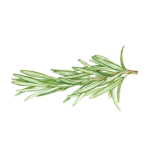
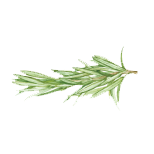
add GA + fix image leaf

diff --git a/components/LBC/ToutBu.js b/components/LBC/ToutBu.js
@@ -8,7 +8,7 @@ const ToutBu = ({ page }) => {
         <div className="bg-blueWine text-white flex flex-col py-12 px-5 w-full sm:px-10 lg:absolute lg:top-0 lg:left-0 lg:z-10 lg:px-20 lg:pr-10 lg:py-16 lg:w-[59%] xl:px-28 xl:py-16 xl:w-[55%] 2xl:px-40">
           <h1 className="">Ils ont tout bu :-)</h1>
           <p className="text-2xl font-semibold mt-5">
-            Nous revenons très vite avec
+            Nous revenons très vite avec{" "}
             {page === "serieLim"
               ? "une nouvelle série limitée"
               : "le prochain Bon Coup"}
@@ -34,26 +34,32 @@ const ToutBu = ({ page }) => {
       </div>
       <div className="px-5 sm:px-10 lg:px-20 xl:px-28 2xl:px-40 my-20 md:w-3/4 mx-auto text-center">
         <h2 className="text-4xl font-light">EMOVIN pour tous les goûts</h2>
-        <h3 className="text-2xl font-light">... mais surtout le vôtre !</h3>
+        <h3 className="text-2xl font-light">
+          ...&nbsp;mais surtout le vôtre&nbsp;!
+        </h3>
         <div className="mt-5 leading-7">
-          <p>Bonne nouvelle ! Votre attente ne devrait pas être trop longue…</p>
+          <p>
+            Bonne nouvelle&nbsp;! Votre attente ne devrait pas être trop longue…
+          </p>
 
           <p className="mt-2">
-            Nos deux compères ont repris la « route des vins » pour vous
-            dénicher de nouvelles « pépites » à découvrir.
+            Nos deux compères ont repris la «&nbsp;route des vins&nbsp;» pour
+            vous dénicher de nouvelles «&nbsp;pépites&nbsp;» à découvrir.
           </p>
 
           <p className="mt-2">
             Pour la prochaine opération, notre feuille de route (ADN
-            d&#39;EMOVIN) est de vous trouver des « flacons » rares issus de
-            domaines respectueux de la nature et qui ne sont pas nécessairement
-            les plus connus ou parfois difficile d&#39;accès&nbsp;!
+            d&#39;EMOVIN) est de vous trouver des «&nbsp;flacons&nbsp;» rares
+            issus de domaines respectueux de la nature et qui ne sont pas
+            nécessairement les plus connus ou parfois difficile
+            d&#39;accès&nbsp;!
           </p>
 
           <p className="mt-2">
-            Notre quête nous pousse rarement vers « le moins disant » d&#39;une
-            appellation, mais plutôt vers un vin « bien fait » et qui correspond
-            à vos attentes ! Vous nous faites confiance depuis près de 2 ans…{" "}
+            Notre quête nous pousse rarement vers «&nbsp;le moins disant&nbsp;»
+            d&#39;une appellation, mais plutôt vers un vin «&nbsp;bien
+            fait&nbsp;» et qui correspond à vos attentes ! Vous nous faites
+            confiance depuis près de 2 ans…{" "}
           </p>
           <p>cela nous honore tout autant que cela nous oblige.</p>
 

diff --git a/pages/_app.js b/pages/_app.js
@@ -9,6 +9,7 @@ import Loading from "../components/Loading";
 import { useContext, useEffect } from "react";
 import { CookieNotFound } from "@shopify/shopify-api/dist/error";
 import Cookies from "js-cookie";
+import Script from "next/script";
 
 function MyApp({ Component, pageProps }) {
   const router = useRouter();
@@ -32,6 +33,22 @@ function MyApp({ Component, pageProps }) {
   // }
   return (
     <>
+      <Script
+        id="1"
+        strategy="lazyOnload"
+        src={`https://www.googletagmanager.com/gtag/js?id=${process.env.NEXT_PUBLIC_GOOGLE_ANALYTICS}`}
+      />
+
+      <Script strategy="lazyOnload" id="2">
+        {`
+        window.dataLayer = window.dataLayer || [];
+        function gtag(){dataLayer.push(arguments);}
+        gtag('js', new Date());
+        gtag('config', '${process.env.NEXT_PUBLIC_GOOGLE_ANALYTICS}', {
+        page_path: window.location.pathname,
+        });
+    `}
+      </Script>
       <Head>
         <title>Emovin : le Plaisir de Partager</title> {/* customisable */}
       </Head>

diff --git a/pages/_document.js b/pages/_document.js
@@ -46,9 +46,16 @@ class MyDocument extends Document {
           />
           <meta property="og:locale:alternate" content="fr_FR" />
           <meta property="og:site_name" content="Emovin" />
-          <link rel="preconnect" href="https://fonts.googleapis.com"/>
-          <link rel="preconnect" href="https://fonts.gstatic.com" crossOrigin="True"/>
-          <link href="https://fonts.googleapis.com/css2?family=Caveat:wght@400;500;600;700&family=Lexend:wght@100;200;300;400;500;600;700;800;900&display=swap" rel="stylesheet"/>
+          <link rel="preconnect" href="https://fonts.googleapis.com" />
+          <link
+            rel="preconnect"
+            href="https://fonts.gstatic.com"
+            crossOrigin="True"
+          />
+          <link
+            href="https://fonts.googleapis.com/css2?family=Caveat:wght@400;500;600;700&family=Lexend:wght@100;200;300;400;500;600;700;800;900&display=swap"
+            rel="stylesheet"
+          />
         </Head>
         <body>
           <Main />

diff --git a/pages/le-bon-coup.js b/pages/le-bon-coup.js
@@ -4,9 +4,10 @@ import { getAllProductsLeBonCoup } from "../lib/shopify";
 
 const leboncoup = ({ productsLBC }) => {
   if (productsLBC.length !== 3) {
-    return <ToutBu page={"bonCoup"}/>;
+    return <ToutBu page={"bonCoup"} />;
   }
-  return <LeBonCoup productsLBC={productsLBC} />;
+  return <ToutBu page={"bonCoup"} />;
+  // return <LeBonCoup productsLBC={productsLBC} />;
 };
 
 export default leboncoup;

diff --git a/next.config.js b/next.config.js
@@ -8,6 +8,7 @@ const nextConfig = {
     GOOGLE_MAPS_API_KEY: process.env.GOOGLE_MAPS_API_KEY,
     PASSWORD_MAIL_CONTACT: process.env.PASSWORD_MAIL_CONTACT,
     PASSWORD_CREATE_ACCOUNT: process.env.PASSWORD_CREATE_ACCOUNT,
+    NEXT_PUBLIC_GOOGLE_ANALYTICS: process.env.NEXT_PUBLIC_GOOGLE_ANALYTICS,
   },
   images: {
     domains: ["cdn.shopify.com"],
